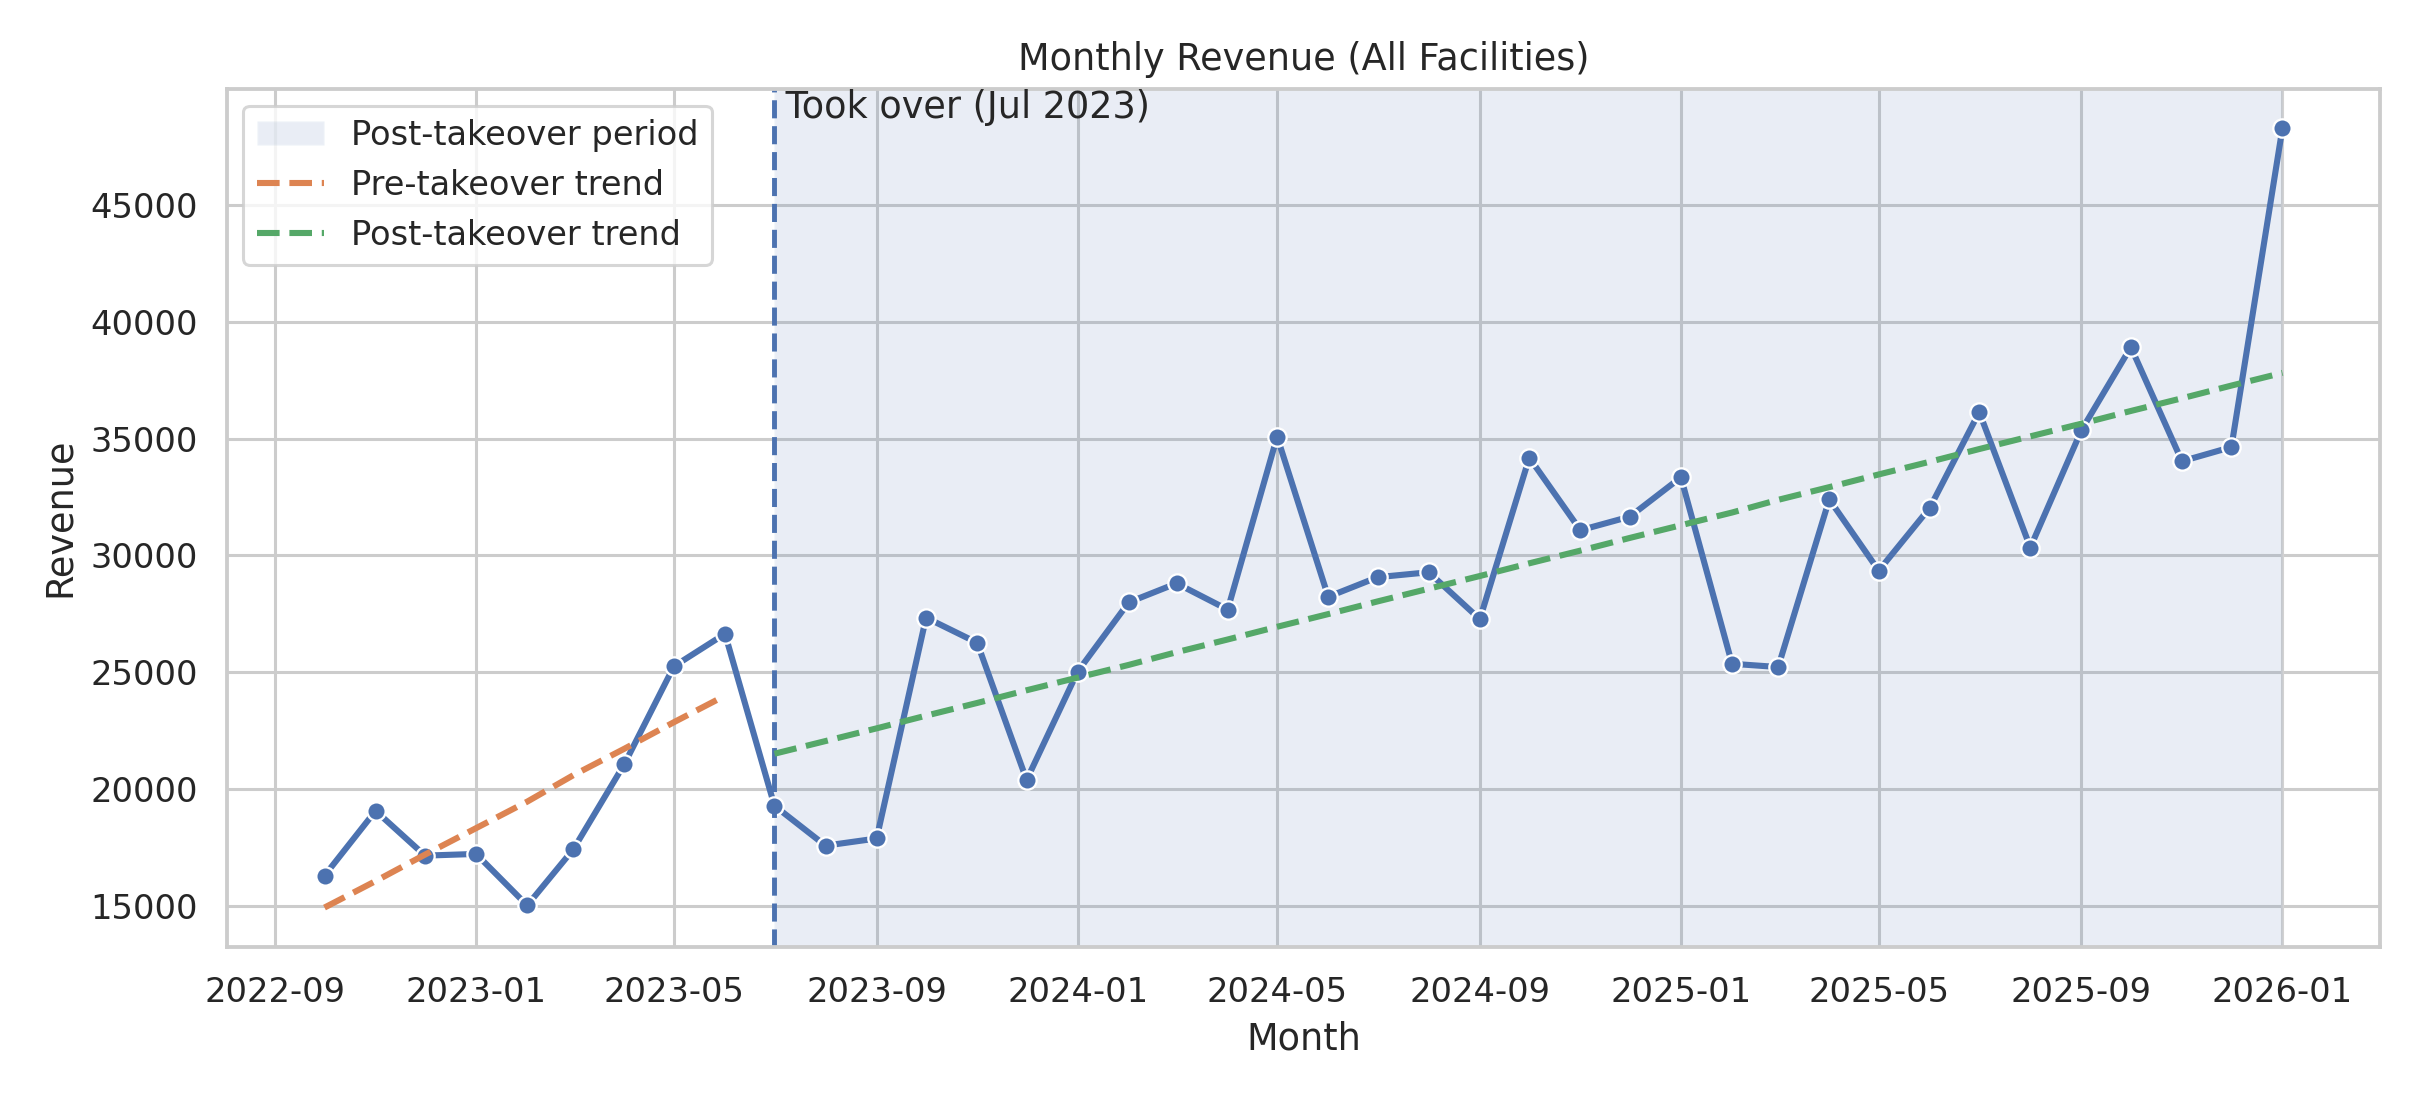
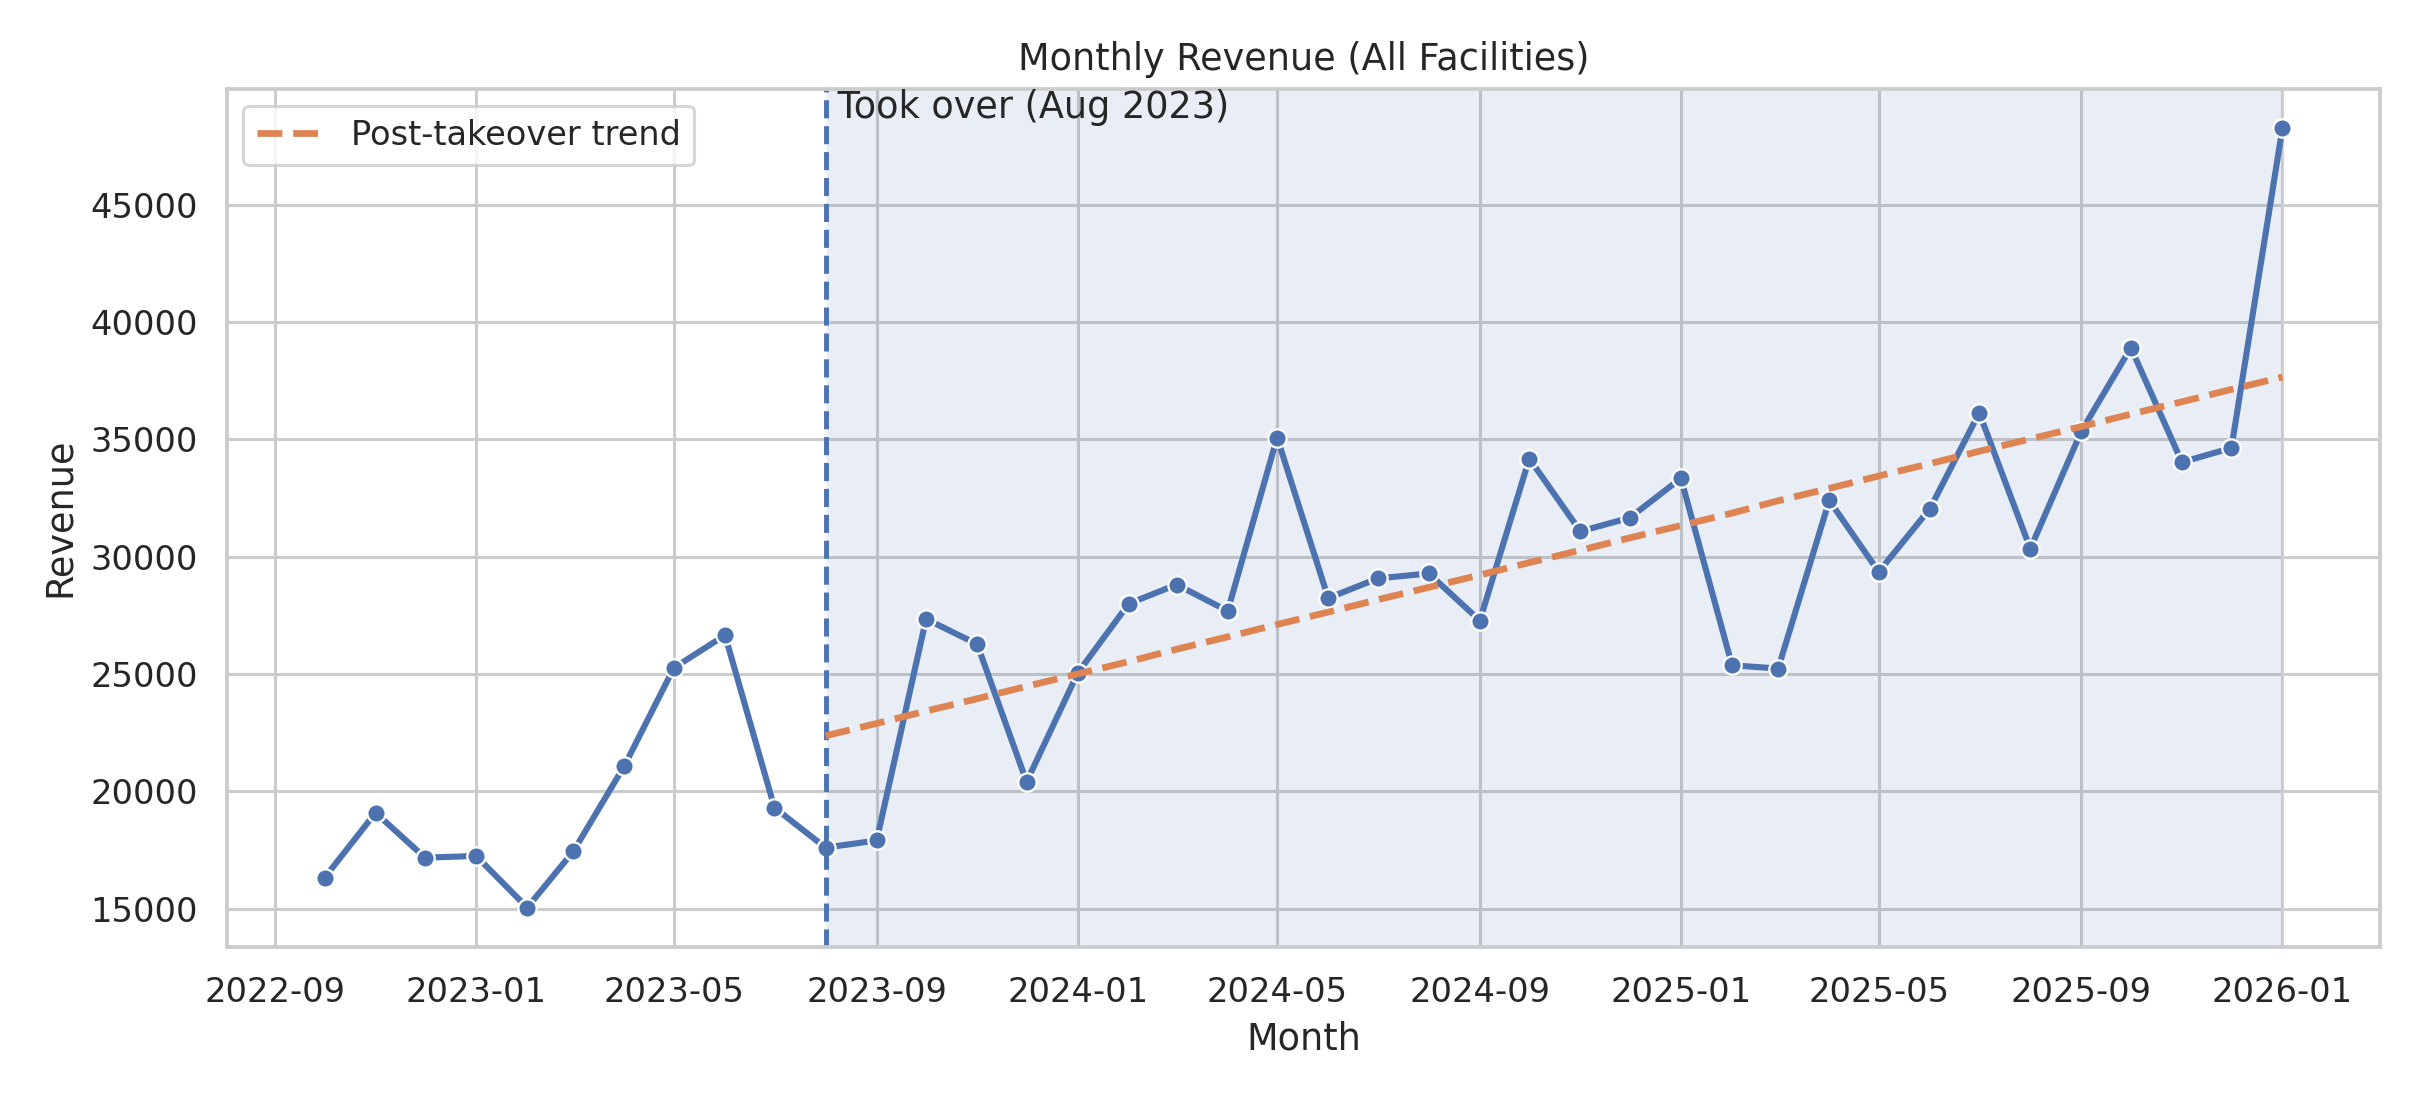
Updated visualizations

diff --git a/src/viz.py b/src/viz.py
@@ -19,7 +19,7 @@ def _save(fig, out_path: Path) -> None:
 def plot_total_revenue(
     monthly_total: pd.DataFrame,
     out_dir: str | Path,
-    takeover_date: str = "2023-07-01",
+    takeover_date: str = "2023-08-01",
 ) -> None:
     import numpy as np
 
@@ -27,45 +27,47 @@ def plot_total_revenue(
     df = monthly_total.copy()
     takeover_ts = pd.to_datetime(takeover_date)
 
-    # Ensure sorted and datetime
     df["month"] = pd.to_datetime(df["month"])
     df = df.sort_values("month").reset_index(drop=True)
 
     fig, ax = plt.subplots(figsize=(11, 5))
 
-    # Main line
-    sns.lineplot(data=df, x="month", y="revenue", marker="o", linewidth=2, ax=ax)
+    # Main revenue line
+    sns.lineplot(
+        data=df,
+        x="month",
+        y="revenue",
+        marker="o",
+        linewidth=2,
+        ax=ax,
+    )
 
     ax.set_title("Monthly Revenue (All Facilities)")
     ax.set_xlabel("Month")
     ax.set_ylabel("Revenue")
 
-    # Shaded post-takeover region
-    x_min = df["month"].min()
+    # Shade post-takeover region
     x_max = df["month"].max()
-    ax.axvspan(takeover_ts, x_max, alpha=0.12, label="Post-takeover period")
+    ax.axvspan(takeover_ts, x_max, alpha=0.12)
 
     # Vertical marker
     ax.axvline(takeover_ts, linestyle="--", linewidth=1.6)
-    ax.text(takeover_ts, ax.get_ylim()[1], " Took over (Jul 2023)", va="top")
+    ax.text(takeover_ts, ax.get_ylim()[1], " Took over (Aug 2023)", va="top")
 
-    # Trendlines (simple linear regression pre vs post)
-    # Using an integer time index for regression
+    # --- Post-takeover trendline only ---
     df["t"] = np.arange(len(df))
-
-    pre = df[df["month"] < takeover_ts].copy()
     post = df[df["month"] >= takeover_ts].copy()
 
-    def add_trendline(sub: pd.DataFrame, label: str):
-        # Need at least 2 points to fit a line
-        if len(sub) < 2:
-            return
-        m, b = np.polyfit(sub["t"].to_numpy(), sub["revenue"].to_numpy(), 1)
-        y_hat = m * sub["t"].to_numpy() + b
-        ax.plot(sub["month"], y_hat, linestyle="--", linewidth=2, label=label)
-
-    add_trendline(pre, "Pre-takeover trend")
-    add_trendline(post, "Post-takeover trend")
+    if len(post) >= 2:
+        m, b = np.polyfit(post["t"].to_numpy(), post["revenue"].to_numpy(), 1)
+        y_hat = m * post["t"].to_numpy() + b
+        ax.plot(
+            post["month"],
+            y_hat,
+            linestyle="--",
+            linewidth=2.2,
+            label="Post-takeover trend",
+        )
 
     ax.legend()
 
@@ -75,7 +77,7 @@ def plot_total_revenue(
 def plot_revenue_by_facility(
     monthly_by_facility: pd.DataFrame,
     out_dir: str | Path,
-    takeover_date: str = "2023-07-01",
+    takeover_date: str = "2023-08-01",
 ) -> None:
     out_dir = Path(out_dir)
     df = monthly_by_facility.copy()
